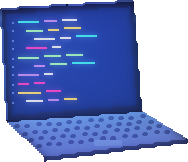
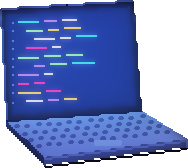
art(2.x): the laptop's base has a thickness; the map and cup part
The laptop's base now shows its front edge and the side toward the middle of the room, and sits on the table on a dark contact line instead of floating. The map moves back along the table and the cup forward, so they no longer overlap.

diff --git a/src/scene/geometry.gen.ts b/src/scene/geometry.gen.ts
@@ -29,8 +29,8 @@ export const CAMERA = { x: 240, y: 209.808 };
 /** Every focusable object, keyed by the section it opens */
 export const OBJECTS: Record<string, ObjectGeometry> = {
   cover: { zone: [142, 116, 338, 272], light: { x: 240, y: 194, rx: 108, ry: 84 } },
-  projects: { zone: [137, 279, 252, 376], light: { x: 195, y: 328, rx: 62, ry: 52 }, box: { x: 148, y: 288, w: 94, h: 81 }, sprite: '/assets/obj-projects.webp' },
+  projects: { zone: [137, 279, 252, 376], light: { x: 195, y: 328, rx: 62, ry: 52 }, box: { x: 148, y: 288, w: 94, h: 84 }, sprite: '/assets/obj-projects.webp' },
   about: { zone: [308, 344, 360, 378], light: { x: 334, y: 361, rx: 30, ry: 20 }, box: { x: 312, y: 347, w: 39, h: 23 }, sprite: '/assets/obj-about.webp' },
   stack: { zone: [318.7565, 36.95, 409.9482, 92.9085], light: { x: 364.3523, y: 67.0018, rx: 49.7409, ry: 29.0155 }, box: { x: 325, y: 46, w: 75, h: 44 }, sprite: '/assets/obj-stack.webp', front: { x: 322, y: 77, w: 85, h: 17, sprite: '/assets/obj-stack-front.webp' } },
-  journey: { zone: [227, 320, 310, 353], light: { x: 265, y: 336, rx: 38, ry: 14 }, box: { x: 233, y: 326, w: 65, h: 19 }, sprite: '/assets/obj-journey.webp' },
+  journey: { zone: [227, 317, 310, 348], light: { x: 265, y: 332, rx: 38, ry: 12 }, box: { x: 233, y: 323, w: 63, h: 18 }, sprite: '/assets/obj-journey.webp' },
 };

diff --git a/src/scene/geometry.gen.css b/src/scene/geometry.gen.css
@@ -9,7 +9,7 @@
   transform-origin: 50% 43.71%;
 }
 .steam {
-  left: 58.9292%; top: 69.775%;
+  left: 59.0875%; top: 70.0917%;
 }
 .cur {
   left: 40.8333%; top: 69.1667%;

diff --git a/tools/art/room.py b/tools/art/room.py
@@ -43,7 +43,7 @@ OBJECTS = {
     'stack': dict(at=(326, 52), zone=(-10, -9, 78, 45), light=(34, 20, 48, 28), on_rack=1),
     # the map, half open on the table; the line display on the wall is the
     # railway's, and only a decoy
-    'journey': dict(at=(233, 326), zone=(-6, -6, 77, 27), light=(32, 10, 38, 14)),
+    'journey': dict(at=(233, 323), zone=(-6, -6, 77, 25), light=(32, 9, 38, 12)),
 }
 
 # The window opening (x y w h) and its corner radius. The page lays .win over it:
@@ -104,7 +104,7 @@ def P(X, Y, Z):
 
 # The cup and saucer were drawn too large for the laptop beside them: they are
 # drawn at COFFEE_SCALE about the middle of the saucer's foot.
-COFFEE_AT = (281, 356)
+COFFEE_AT = (283, 360)
 COFFEE_SCALE = 0.62
 
 # Small animated things the page lays over the art, each x y relative to what
@@ -1082,7 +1082,7 @@ def table_map(g, T):
     o = g.at(0, 0, 'journey')
     paper = (232, 222, 196)
     # the flat sheet, a little askew
-    A, B, C, D = T(0.47, 0.14), T(0.77, 0.11), T(0.78, 0.35), T(0.48, 0.38)
+    A, B, C, D = T(0.47, 0.08), T(0.77, 0.05), T(0.78, 0.28), T(0.48, 0.31)
     o.poly([A, B, C, D], paper)
     g.line([(D[0], D[1] + 1), (C[0], C[1] + 1)], mul(WOOD, 0.55))  # its shadow on the wood
 
@@ -1283,9 +1283,16 @@ def table(g, rnd):
     o.px(181, 290, (20, 22, 40))
     # body
     Bq = [(151, 348), (218, 343), (241, 357), (170, 366)]
+    # the base has a thickness: its front edge and the side toward the middle
+    # of the room both show, and it sits on the table on a dark contact line
+    o.poly([(151, 348), (170, 366), (170, 370), (151, 351)], (60, 64, 94))
+    o.poly([(218, 343), (241, 357), (241, 361), (218, 346)], (74, 80, 112))
+    o.poly([(170, 366), (241, 357), (241, 361), (170, 370)], (96, 102, 138))
+    o.line([(170, 367), (241, 358)], (132, 140, 176))
+    o.line([(170, 371), (241, 362)], (20, 18, 30))
+    o.line([(241, 357), (241, 361)], (150, 158, 192))
     o.poly(Bq, (160, 168, 198))
     o.line([Bq[0], Bq[1]], (40, 44, 70))
-    o.poly([(170, 366), (241, 357), (241, 359), (170, 368)], (92, 98, 132))
     for t in (0.14, 0.32, 0.5, 0.68):
         a, b = lerp(Bq[0], Bq[3], t), lerp(Bq[1], Bq[2], t)
         n = 13
